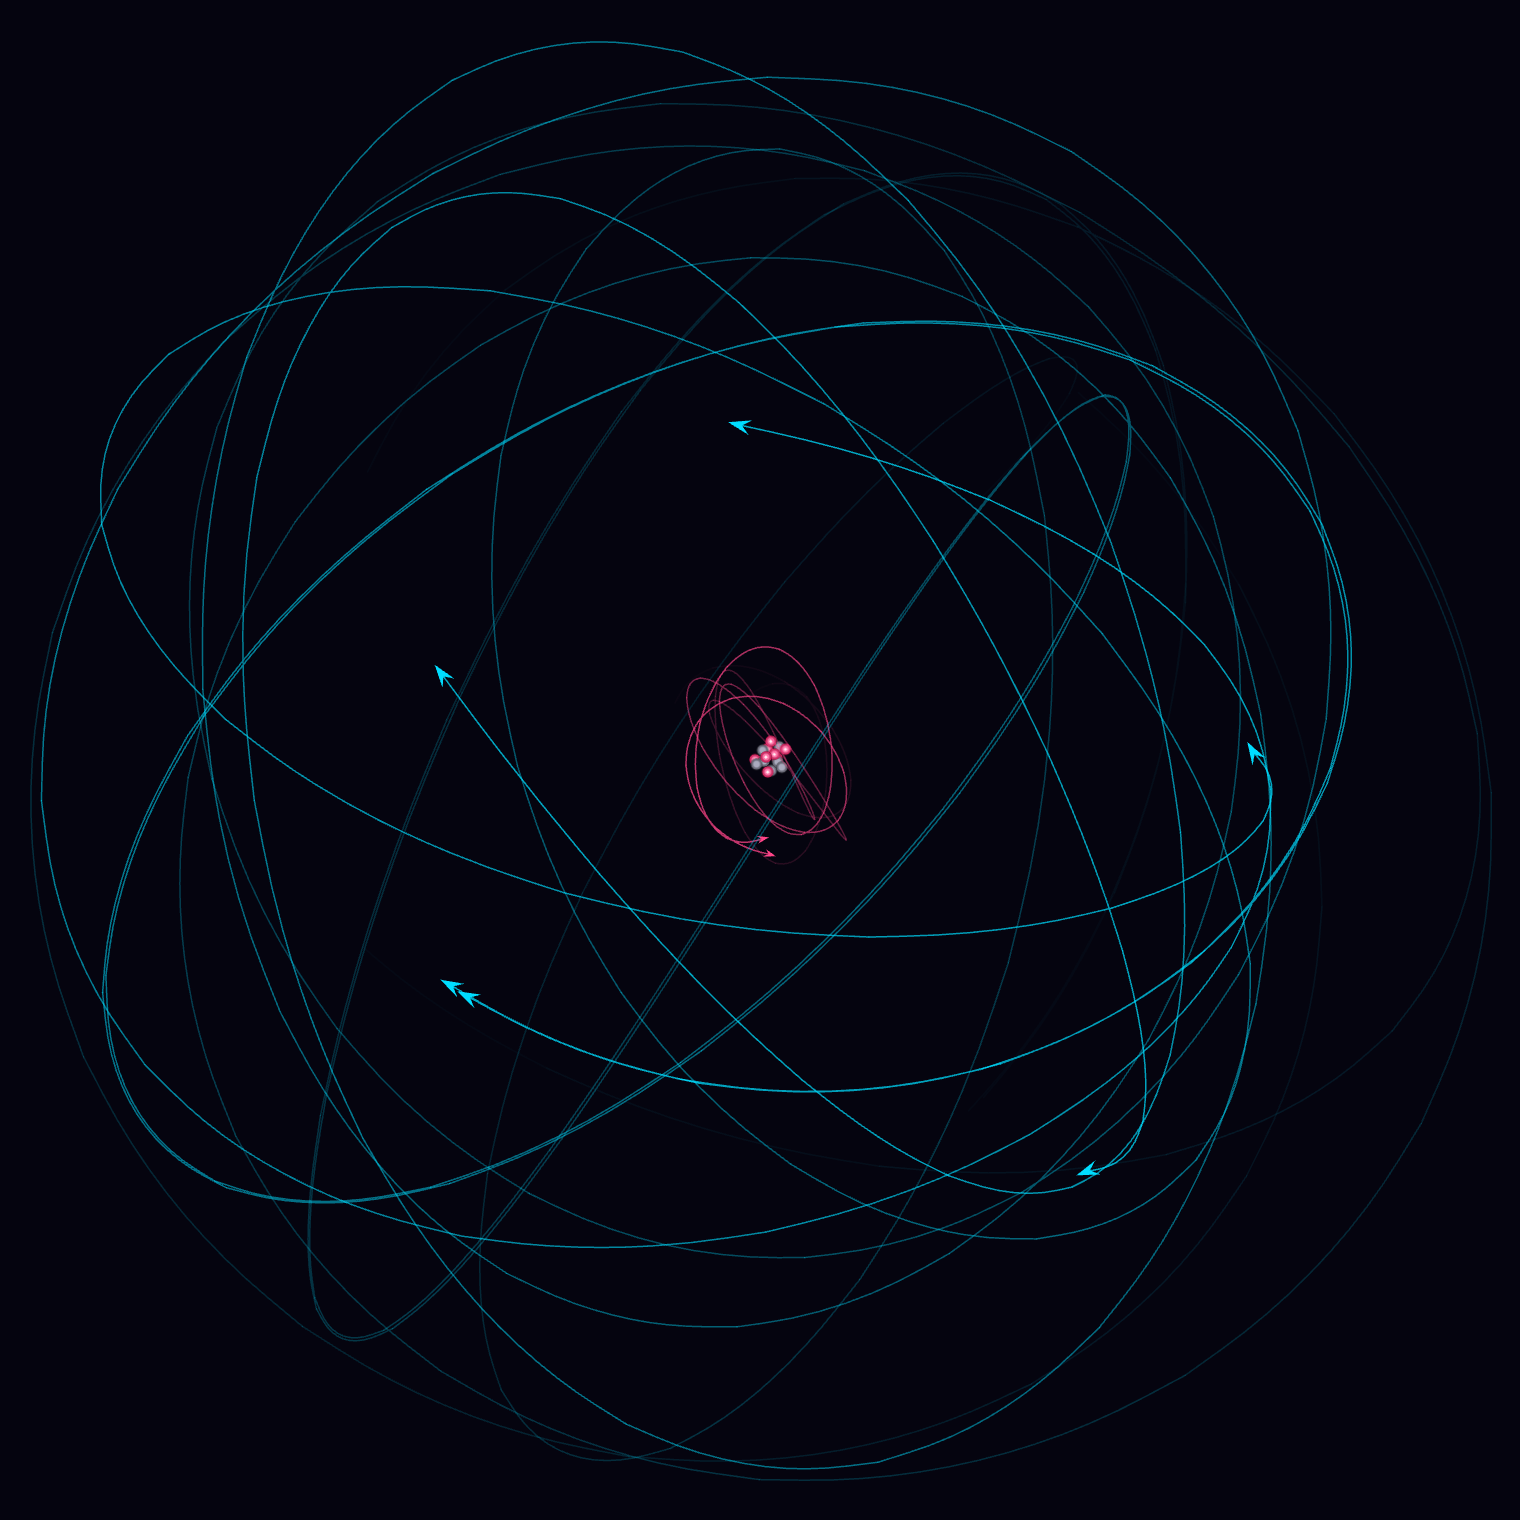
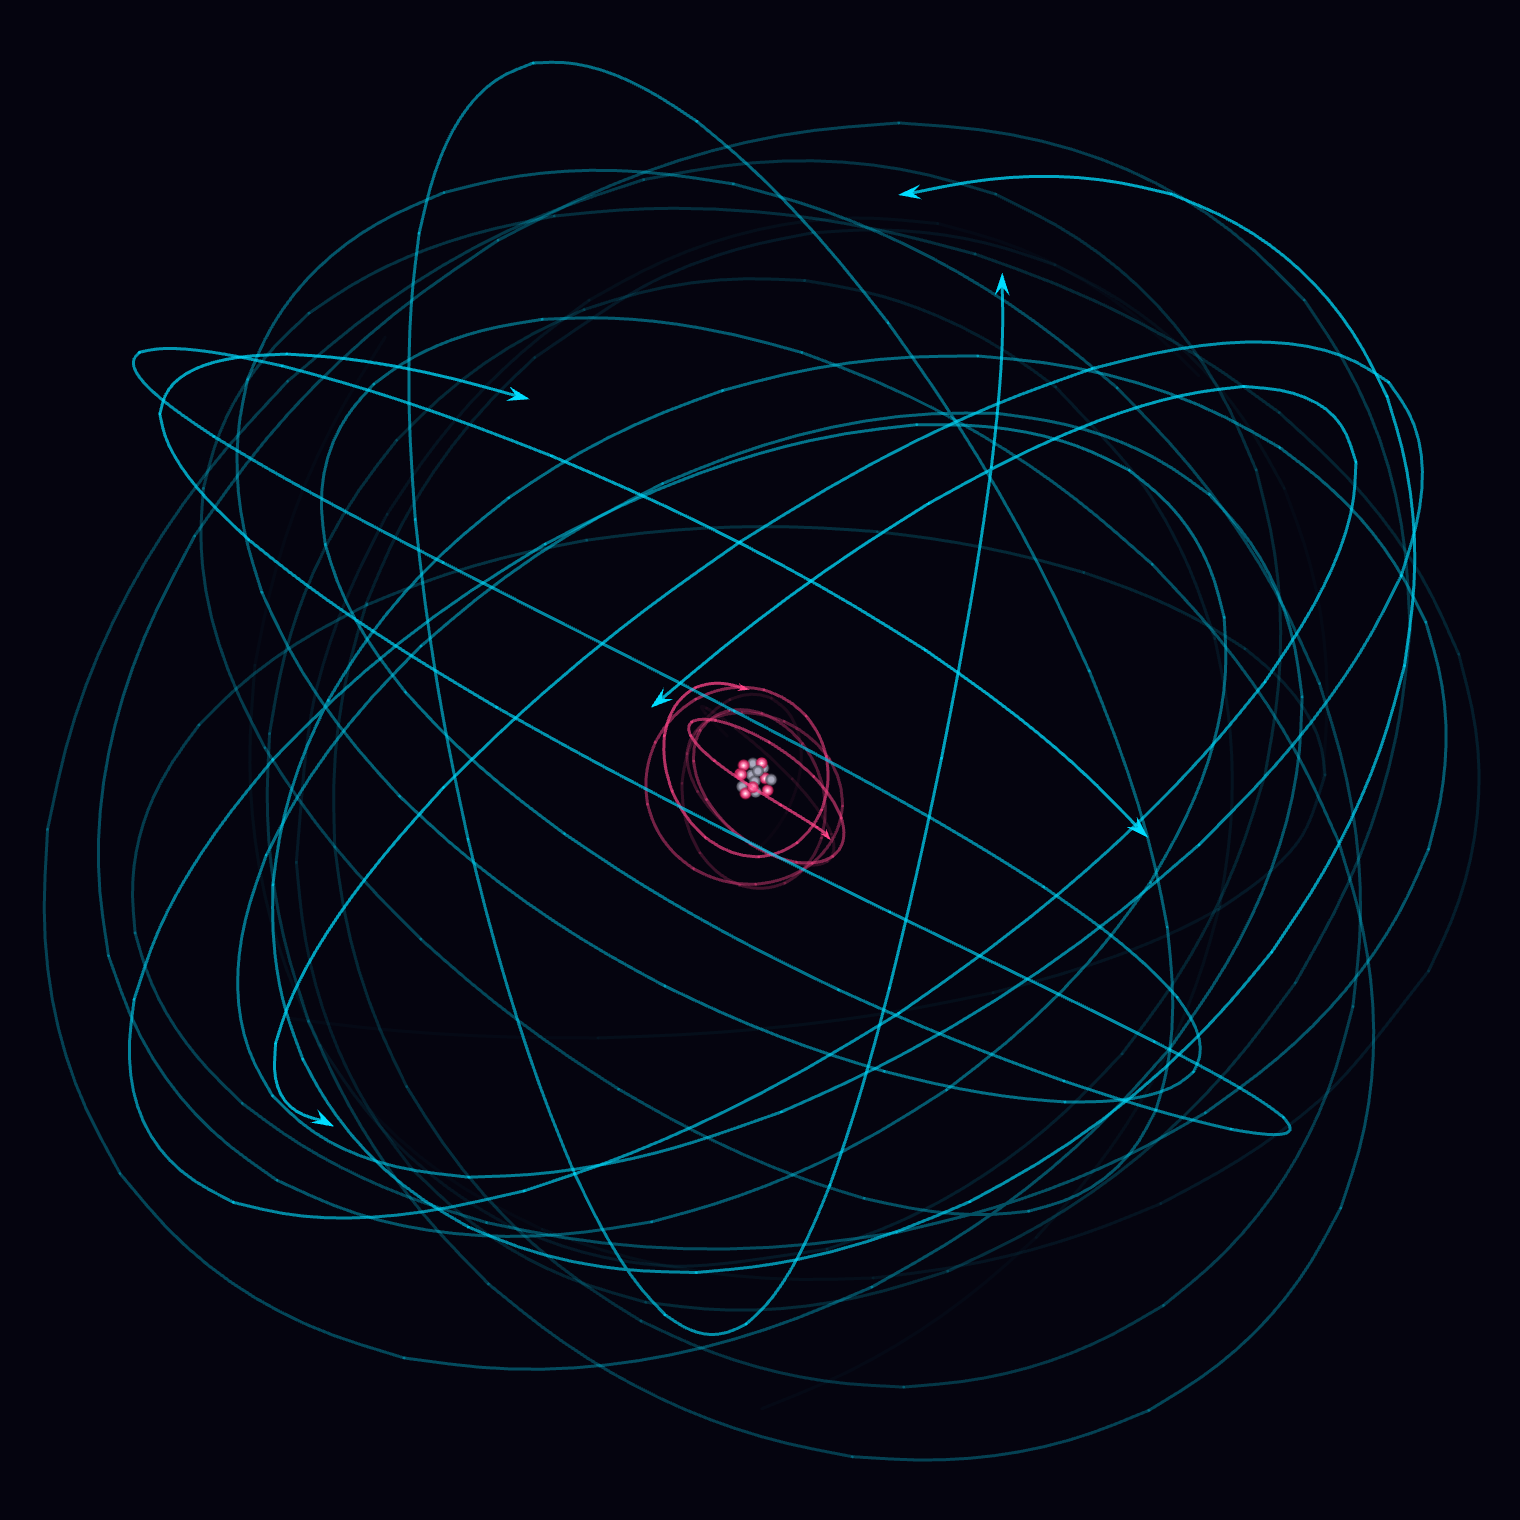
chem2: double the hero's trail stroke, 1.5px to 3px
The sim strokes trails at a fixed 1.5px regardless of zoom, so capturing the
atom at 1460px drew it with lines three times finer, relative to the atom,
than the old 490px crop. Bolder reads far better at the size the hero is
actually shown.

Done by scaling that one value on the capture page's 2D context, so nothing
in the sim changed and students still get 1.5px trails. Scaling exactly 1.5
is surgical here: the only other 1.5px strokes are the atomic-radius dashed
line, switched off for the capture, and an inactive selection ring.

Reframed on a new capture at the same 1520 crop. Background is still one flat
rgb(5,4,15) matching --bg, no pixel is retouched, and the outermost 8px of
the frame is pure background so no trail is clipped.

Claude-Session: https://claude.ai/code/session_01TPJ8d6GGp6Kfu4SAPDUpnp

diff --git a/chem2/index.html b/chem2/index.html
@@ -43,7 +43,12 @@
      rather than screenshotted: the sim sets canvas.width = window.innerWidth, so
      it renders at 1 CSS px per pixel and a screen grab can never beat the window.
      Oversizing the backing store to 1800x1800 and raising viewZoom to suit draws
-     the same atom with 2.7x the pixels, and skips the UI chrome for free. */
+     the same atom with 2.7x the pixels, and skips the UI chrome for free.
+
+     Trail strokes were doubled, 1.5px to 3px, for the capture only — at this zoom
+     the sim's fixed-width line goes hairline-thin next to the atom. That was done
+     by scaling the one value on the capture page's 2D context, not in the sim: the
+     live sim is unchanged and still strokes trails at 1.5px. */
   #hero {
     flex: 0 0 auto;
     height: min(82vh, 44vw);
